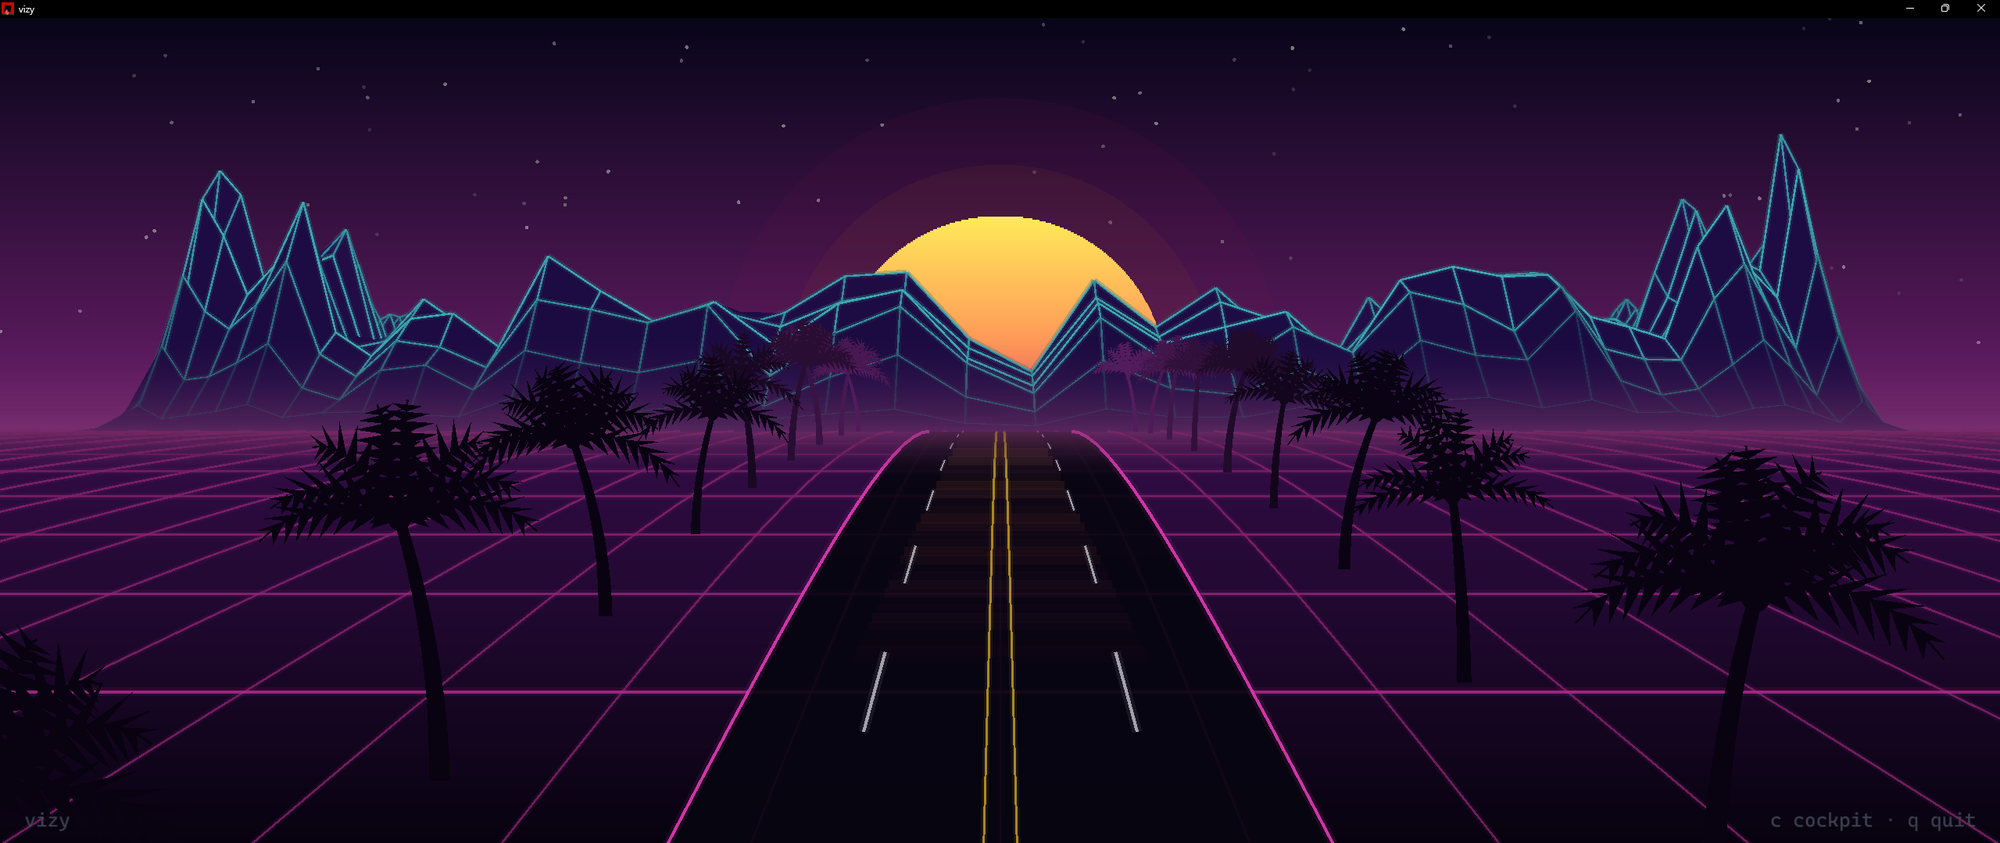
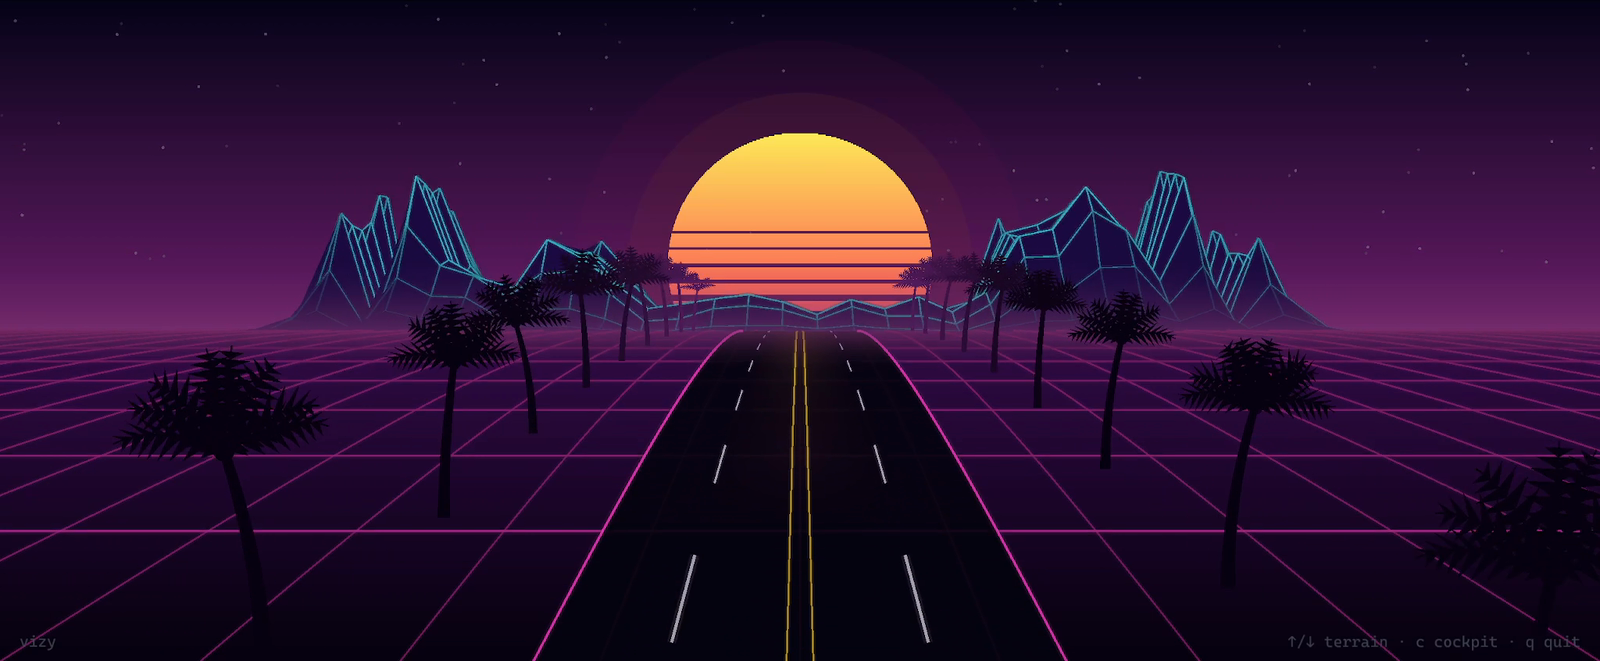
Add demo GIF and fresh screenshots to the README
The GIF (from a recorded session) shows the chase view, a shooting
star, the swoop into the cockpit and a ground wave rolling in. Also
refresh the chase screenshot and add a cockpit still. Video files are
ignored so recordings in the project folder never get committed.

diff --git a/README.md b/README.md
@@ -2,7 +2,7 @@
 
 An 80s synthwave drive that dances to whatever your PC is playing.
 
-![vizy chase view: a neon grid road heading toward a striped sun, with wireframe spectrum mountains and palm silhouettes](docs/screenshot.png)
+![vizy in motion: driving toward a striped sun past wireframe spectrum mountains, then swooping into the cockpit as a ground wave rolls in](docs/demo.gif)
 
 Play music, a video, a game, anything. vizy listens to your speakers
 directly (no virtual audio cables or extra apps) and turns the sound into a
@@ -20,6 +20,8 @@ night drive:
 - **Play along.** Tap the arrow keys on the beat to surge the mountains and
   send waves rolling down the road. Signal a lane change and the car swerves
   on the next bass hit.
+
+![The cockpit: scanner, MPH readout, voice box, tach and spectrum analyzer, all reacting to the music](docs/cockpit.png)
 
 ## Download
 
